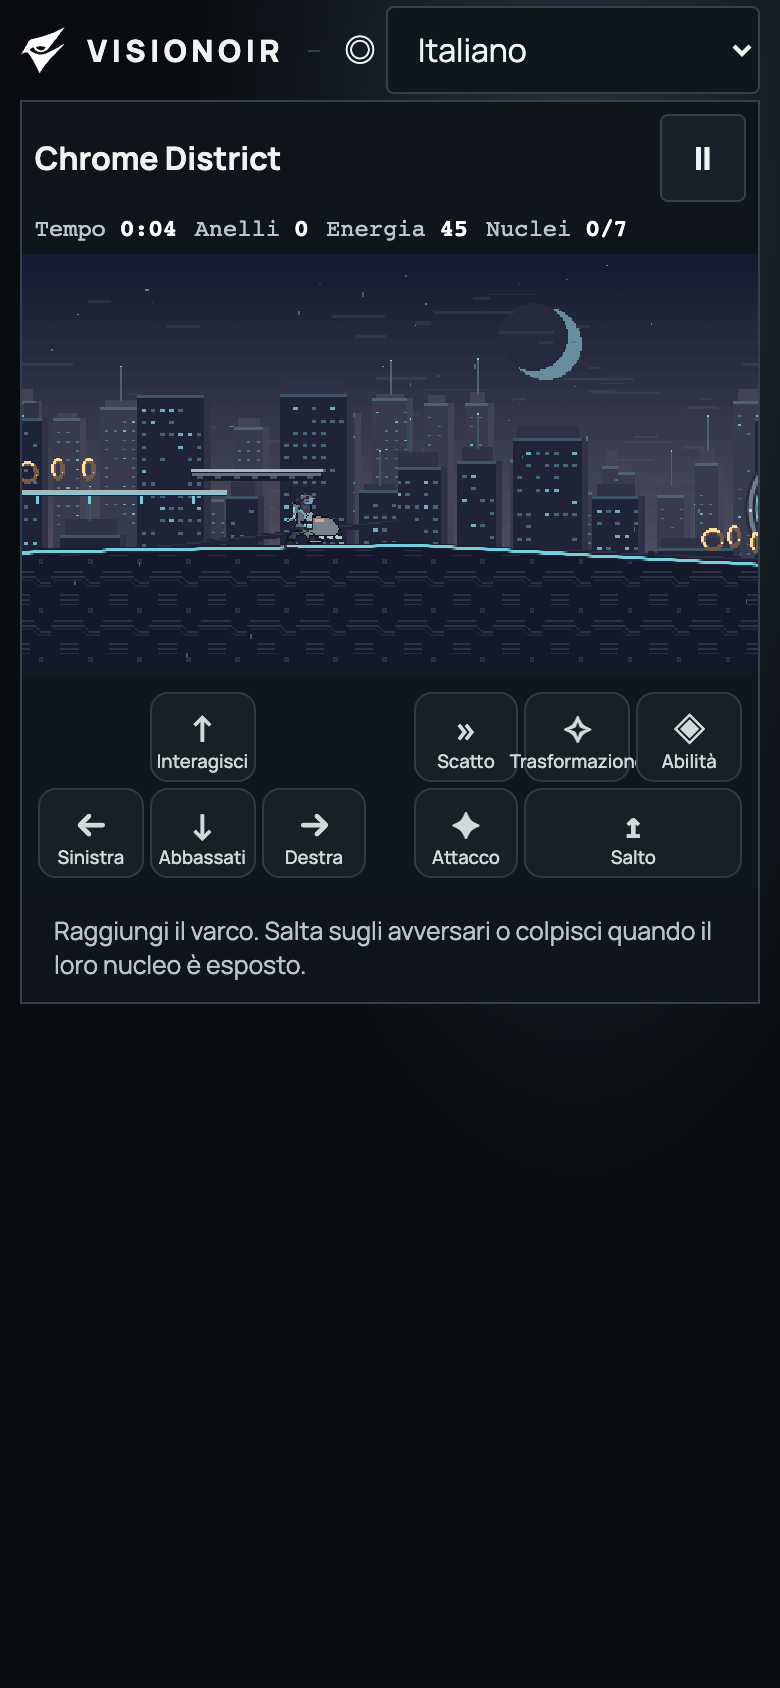
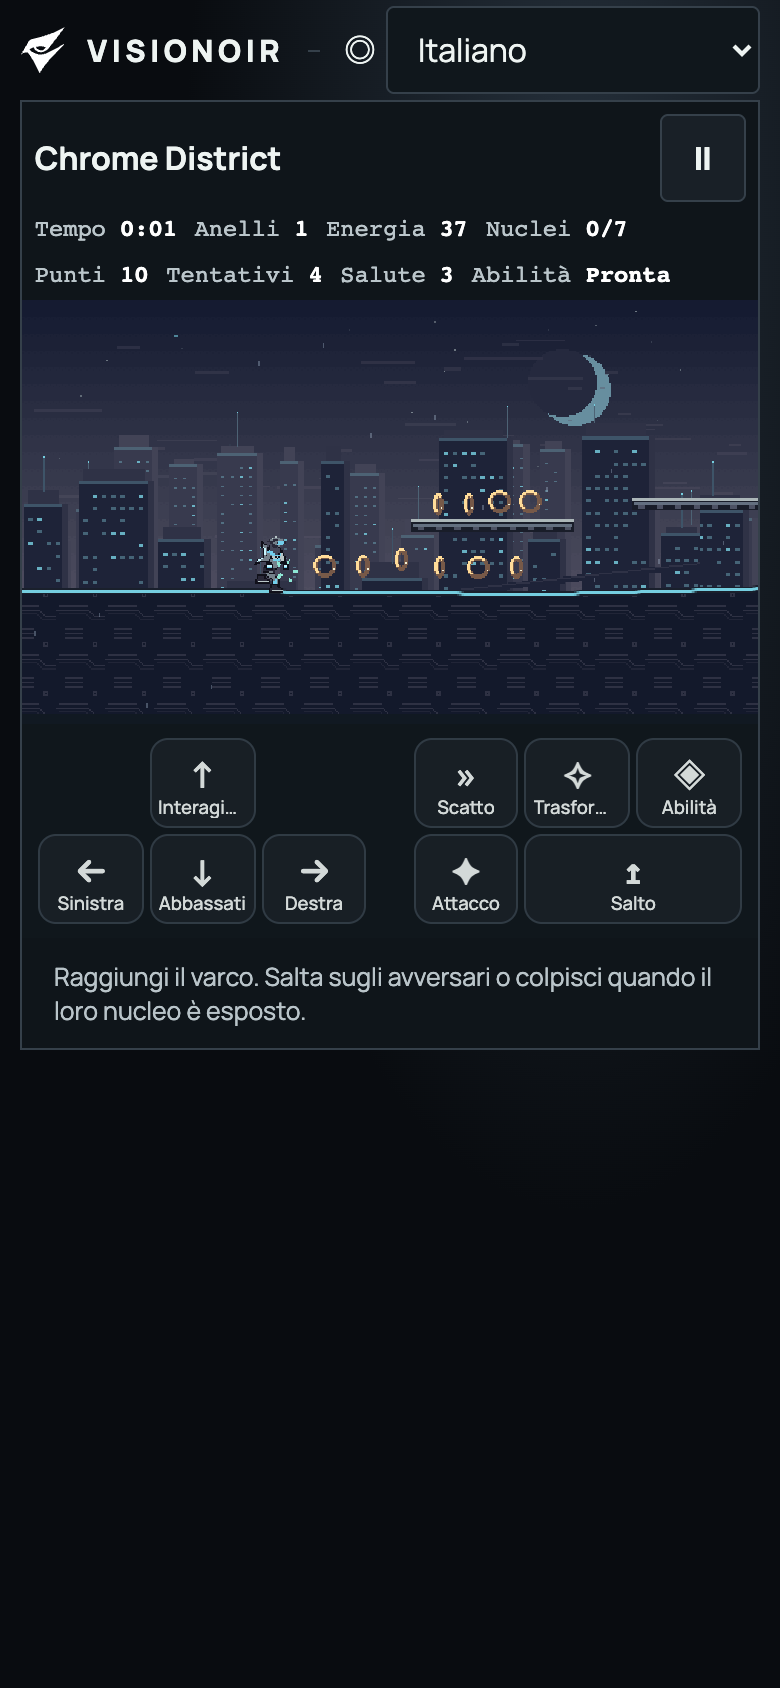
Document the verified game release and measured browser performance

Changed region(s): [[0.0308, 0.1232, 0.9846, 0.6161], [0.9538, 0.2156, 0.9846, 0.2464]]

diff --git a/game/README.md b/game/README.md
@@ -1,0 +1,20 @@
+# The Unseen Protocol
+
+La pagina di gioco è `/unseen/`. Nel footer del sito, la parola «unseen.» apre il gioco nella lingua corrente. Il menu offre Storia, Continua, Contro il tempo, Mappa della città, Archivio, Opzioni e Crediti. La sequenza dei boss si sblocca terminando Protocol X. La Luna si apre dopo i sette nuclei e il completamento della fortezza con Vela.
+
+## Avvio e modifiche
+
+Dalla radice, eseguire `npm ci`, `npm run build` e `npm run preview -- --host 127.0.0.1`. Aprire l’indirizzo stampato con il percorso `/unseen/?lang=it`. L’hosting serve file statici. Il sito e il gioco hanno documenti, cicli di rendering e player distinti.
+
+- Livelli e boss sono definiti in `game/engine/content.js`. Le unità fisiche e le entrate sono descritte in `game/engine/README.md`.
+- I cataloghi modificabili sono in `game/ui/locales`. Conservare le colonne e i nomi propri, quindi ricostruire. I 19 dizionari statici sono generati da `game/ui/catalogs.mjs`.
+- La pipeline grafica si rigenera con `python3 game/art/build.py` (Pillow). Le verifiche di trasparenza, limiti delle celle e variazione fra fotogrammi sono in `game/art/check.py`.
+- Musica, effetti, stem e misure hanno procedure dedicate in `game/audio/README.md`. Quando si cambia un file audio, rigenerare il master, rifare la verifica di decodifica e aggiornare il corrispondente digest SHA-256 in `game/qa/audio-digests.json` soltanto dopo l’ascolto o l’analisi della nuova versione.
+- Il controllo di produzione è `node --test tests/locales.test.mjs game/engine/engine.test.mjs game/qa/checkpoint.test.mjs`, poi `npm run build && node game/qa/release.mjs`. Il Sound Test legge entrambi i manifest. La build originale verifica la presenza delle 39 musiche, 118 effetti e nomi degli effetti in ogni lingua.
+- I salvataggi locali e le impostazioni sono separati. Nelle Opzioni si può trasferire il file JSON su un altro browser. Il checkpoint di Storia riapre il marcatore già raggiunto. Non sono richiesti account.
+- Il profilo privato si produce sul Mac con `npm run game:build:fan` quando sono presenti gli undici PNG di sviluppo. L’output viene creato in una cartella separata. Per lo sviluppo con Vite esiste `npm run game:fan`. L’interfaccia diagnostica per saltare ai livelli è disponibile solo con Vite su loopback e `?qa=1`. Entrambe le varianti condividono il motore.
+- Per tornare alla versione precedente, creare un normale revert del merge del gioco sul ramo pubblico e attendere la pipeline Pages. La revisione pubblica precedente è `54b873dba77731e589344740029bec7812b81be4`. I salvataggi locali del gioco usano chiavi dedicate.
+
+## Distribuzione
+
+Crediti e condizioni d’uso sono in CREDITS.md e LICENSE.md. Consultare i termini del provider prima di cambiare la destinazione del sito o aggiungere transazioni. La copia statica è portabile mantenendo la radice del dominio e il percorso /unseen/. [GitHub Pages limits](https://docs.github.com/en/pages/getting-started-with-github-pages/github-pages-limits)
